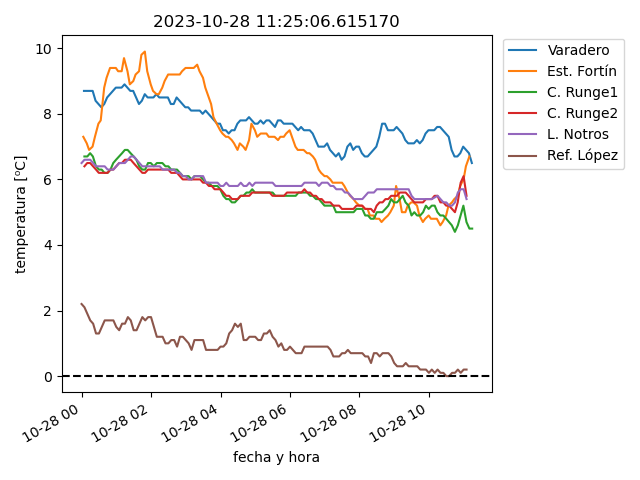
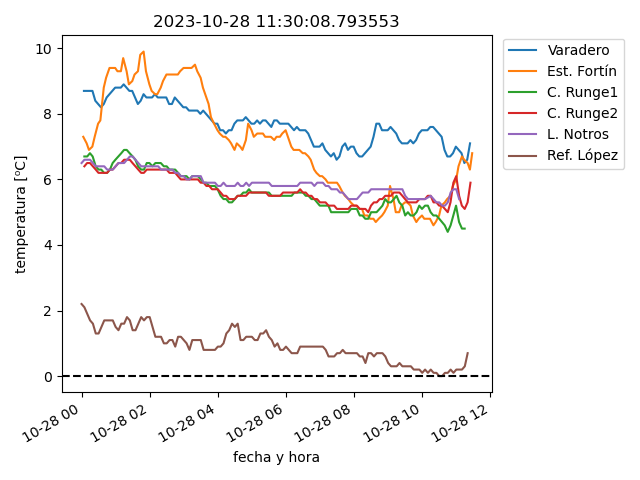
actualiza datos

diff --git a/estaciones/estacion1.html b/estaciones/estacion1.html
@@ -13,42 +13,42 @@
     </tr>
     <tr>
      <td class="stats_data">
-      2023-10-28 11:14:11
+      2023-10-28 11:24:11
      </td>
     </tr>
     <tr>
      <td class="stats_data">
-      TEMPERATURA / 5.3⁰C
+      TEMPERATURA / 5.8⁰C
      </td>
     </tr>
     <tr>
      <td class="stats_data">
-      92.4%
+      91.5%
      </td>
     </tr>
     <tr>
      <td class="stats_data">
-      983.75hPa
+      983.07hPa
      </td>
     </tr>
     <tr>
      <td class="stats_data">
-      17.8/22.9 km/hr WNW
+      29.3/33.5 km/hr WNW
      </td>
     </tr>
     <tr>
      <td class="stats_data">
-      14.22 / 3.05 mm
+      14.48 / 3.05 mm
      </td>
     </tr>
     <tr>
      <td class="stats_data">
-      0.0
+      9.0
      </td>
     </tr>
     <tr>
      <td class="stats_data">
-      87.6 W/m²
+      1012.1 W/m²
      </td>
     </tr>
    </tbody>

diff --git a/estaciones/estacion2.html b/estaciones/estacion2.html
@@ -13,42 +13,42 @@
     </tr>
     <tr>
      <td class="stats_data">
-      2023-10-28 11:09:53
+      2023-10-28 11:27:59
      </td>
     </tr>
     <tr>
      <td class="stats_data">
-      TEMPERATURA / 5.2⁰C
+      TEMPERATURA / 4.1⁰C
      </td>
     </tr>
     <tr>
      <td class="stats_data">
-      90.3%
+      83.0%
      </td>
     </tr>
     <tr>
      <td class="stats_data">
-      988.15hPa
+      988.49hPa
      </td>
     </tr>
     <tr>
      <td class="stats_data">
-      5.4/5.9 km/hr ESE
+      16.0/32.2 km/hr NW
      </td>
     </tr>
     <tr>
      <td class="stats_data">
-      18.29 / 1.52 mm
+      18.54 / 0.76 mm
      </td>
     </tr>
     <tr>
      <td class="stats_data">
-      2.6
+      0.8
      </td>
     </tr>
     <tr>
      <td class="stats_data">
-      663.0 W/m²
+      95.0 W/m²
      </td>
     </tr>
    </tbody>

diff --git a/estaciones/estacion4.html b/estaciones/estacion4.html
@@ -13,42 +13,42 @@
     </tr>
     <tr>
      <td class="stats_data">
-      2023-10-28 11:04:58
+      2023-10-28 11:24:58
      </td>
     </tr>
     <tr>
      <td class="stats_data">
-      TEMPERATURA / 4.6⁰C
+      TEMPERATURA / 5.0⁰C
      </td>
     </tr>
     <tr>
      <td class="stats_data">
-      94.2%
+      94.5%
      </td>
     </tr>
     <tr>
      <td class="stats_data">
-      990.11hPa
+      989.64hPa
      </td>
     </tr>
     <tr>
      <td class="stats_data">
-      3.3/5.1 km/hr SW
+      4.8/7.1 km/hr NW
      </td>
     </tr>
     <tr>
      <td class="stats_data">
-      22.1 / 1.8 mm
+      22.1 / 0.0 mm
      </td>
     </tr>
     <tr>
      <td class="stats_data">
-      0.0
+      9.0
      </td>
     </tr>
     <tr>
      <td class="stats_data">
-      75.0 W/m²
+      948.5 W/m²
      </td>
     </tr>
    </tbody>

diff --git a/estaciones/estacion6.html b/estaciones/estacion6.html
@@ -13,12 +13,12 @@
     </tr>
     <tr>
      <td class="stats_data">
-      2023-10-28 11:05:00
+      2023-10-28 11:20:00
      </td>
     </tr>
     <tr>
      <td class="stats_data">
-      TEMPERATURA / -0.3⁰C
+      TEMPERATURA / 0.2⁰C
      </td>
     </tr>
     <tr>
@@ -28,12 +28,12 @@
     </tr>
     <tr>
      <td class="stats_data">
-      988.49hPa
+      987.71hPa
      </td>
     </tr>
     <tr>
      <td class="stats_data">
-      16.1/32.2 km/hr NNE
+      25.7/48.3 km/hr SSE
      </td>
     </tr>
     <tr>
